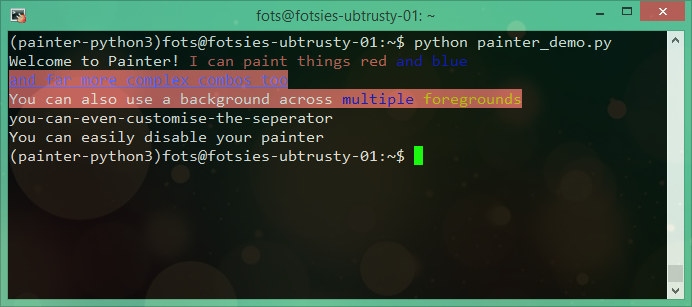
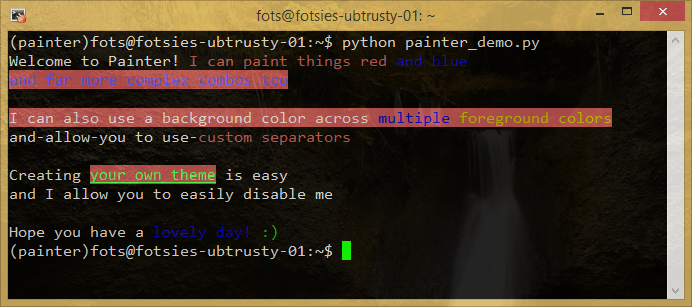
Updated quick start demo code and related screenshot

diff --git a/README.md b/README.md
@@ -32,17 +32,28 @@ print('Welcome to Painter!', paint.red('I can paint things red'),
 
 # Chaining colors
 print(paint.blue.on_red.bold.underline('and far more complex combos too'))
+print()
 
 # Nested painting
-print(paint.on_red('You can also use a background across',
-                   paint.blue('multiple'), paint.yellow('foregrounds')))
+print(paint.on_red('I can also use a background color across',
+                   paint.blue('multiple'), paint.yellow('foreground colors')))
 
 # Custom separator
-print(paint('you', 'can', 'even', 'customise', 'the', 'seperator', sep='-'))
+print(paint('and', 'allow', 'you to use', paint.red('custom separators'),
+      sep='-'))
+print()
+
+# Creating themes
+cool_theme = paint.green.on_red.underline.bold
+print('Creating', cool_theme('your own theme'), 'is easy')
 
 # Easily disable painting of colors
 paint.enabled = False
-print('You can easily', paint.red('disable'), paint.blue('your painter'))
+print('and I allow you to easily', paint.red('disable'), paint.blue('me'))
+print()
+
+paint.enabled = True
+print('Hope you have a', paint.blue('lovely day!'), paint.green(':)'))
 ```
 
 The output of this script looks something like this:
